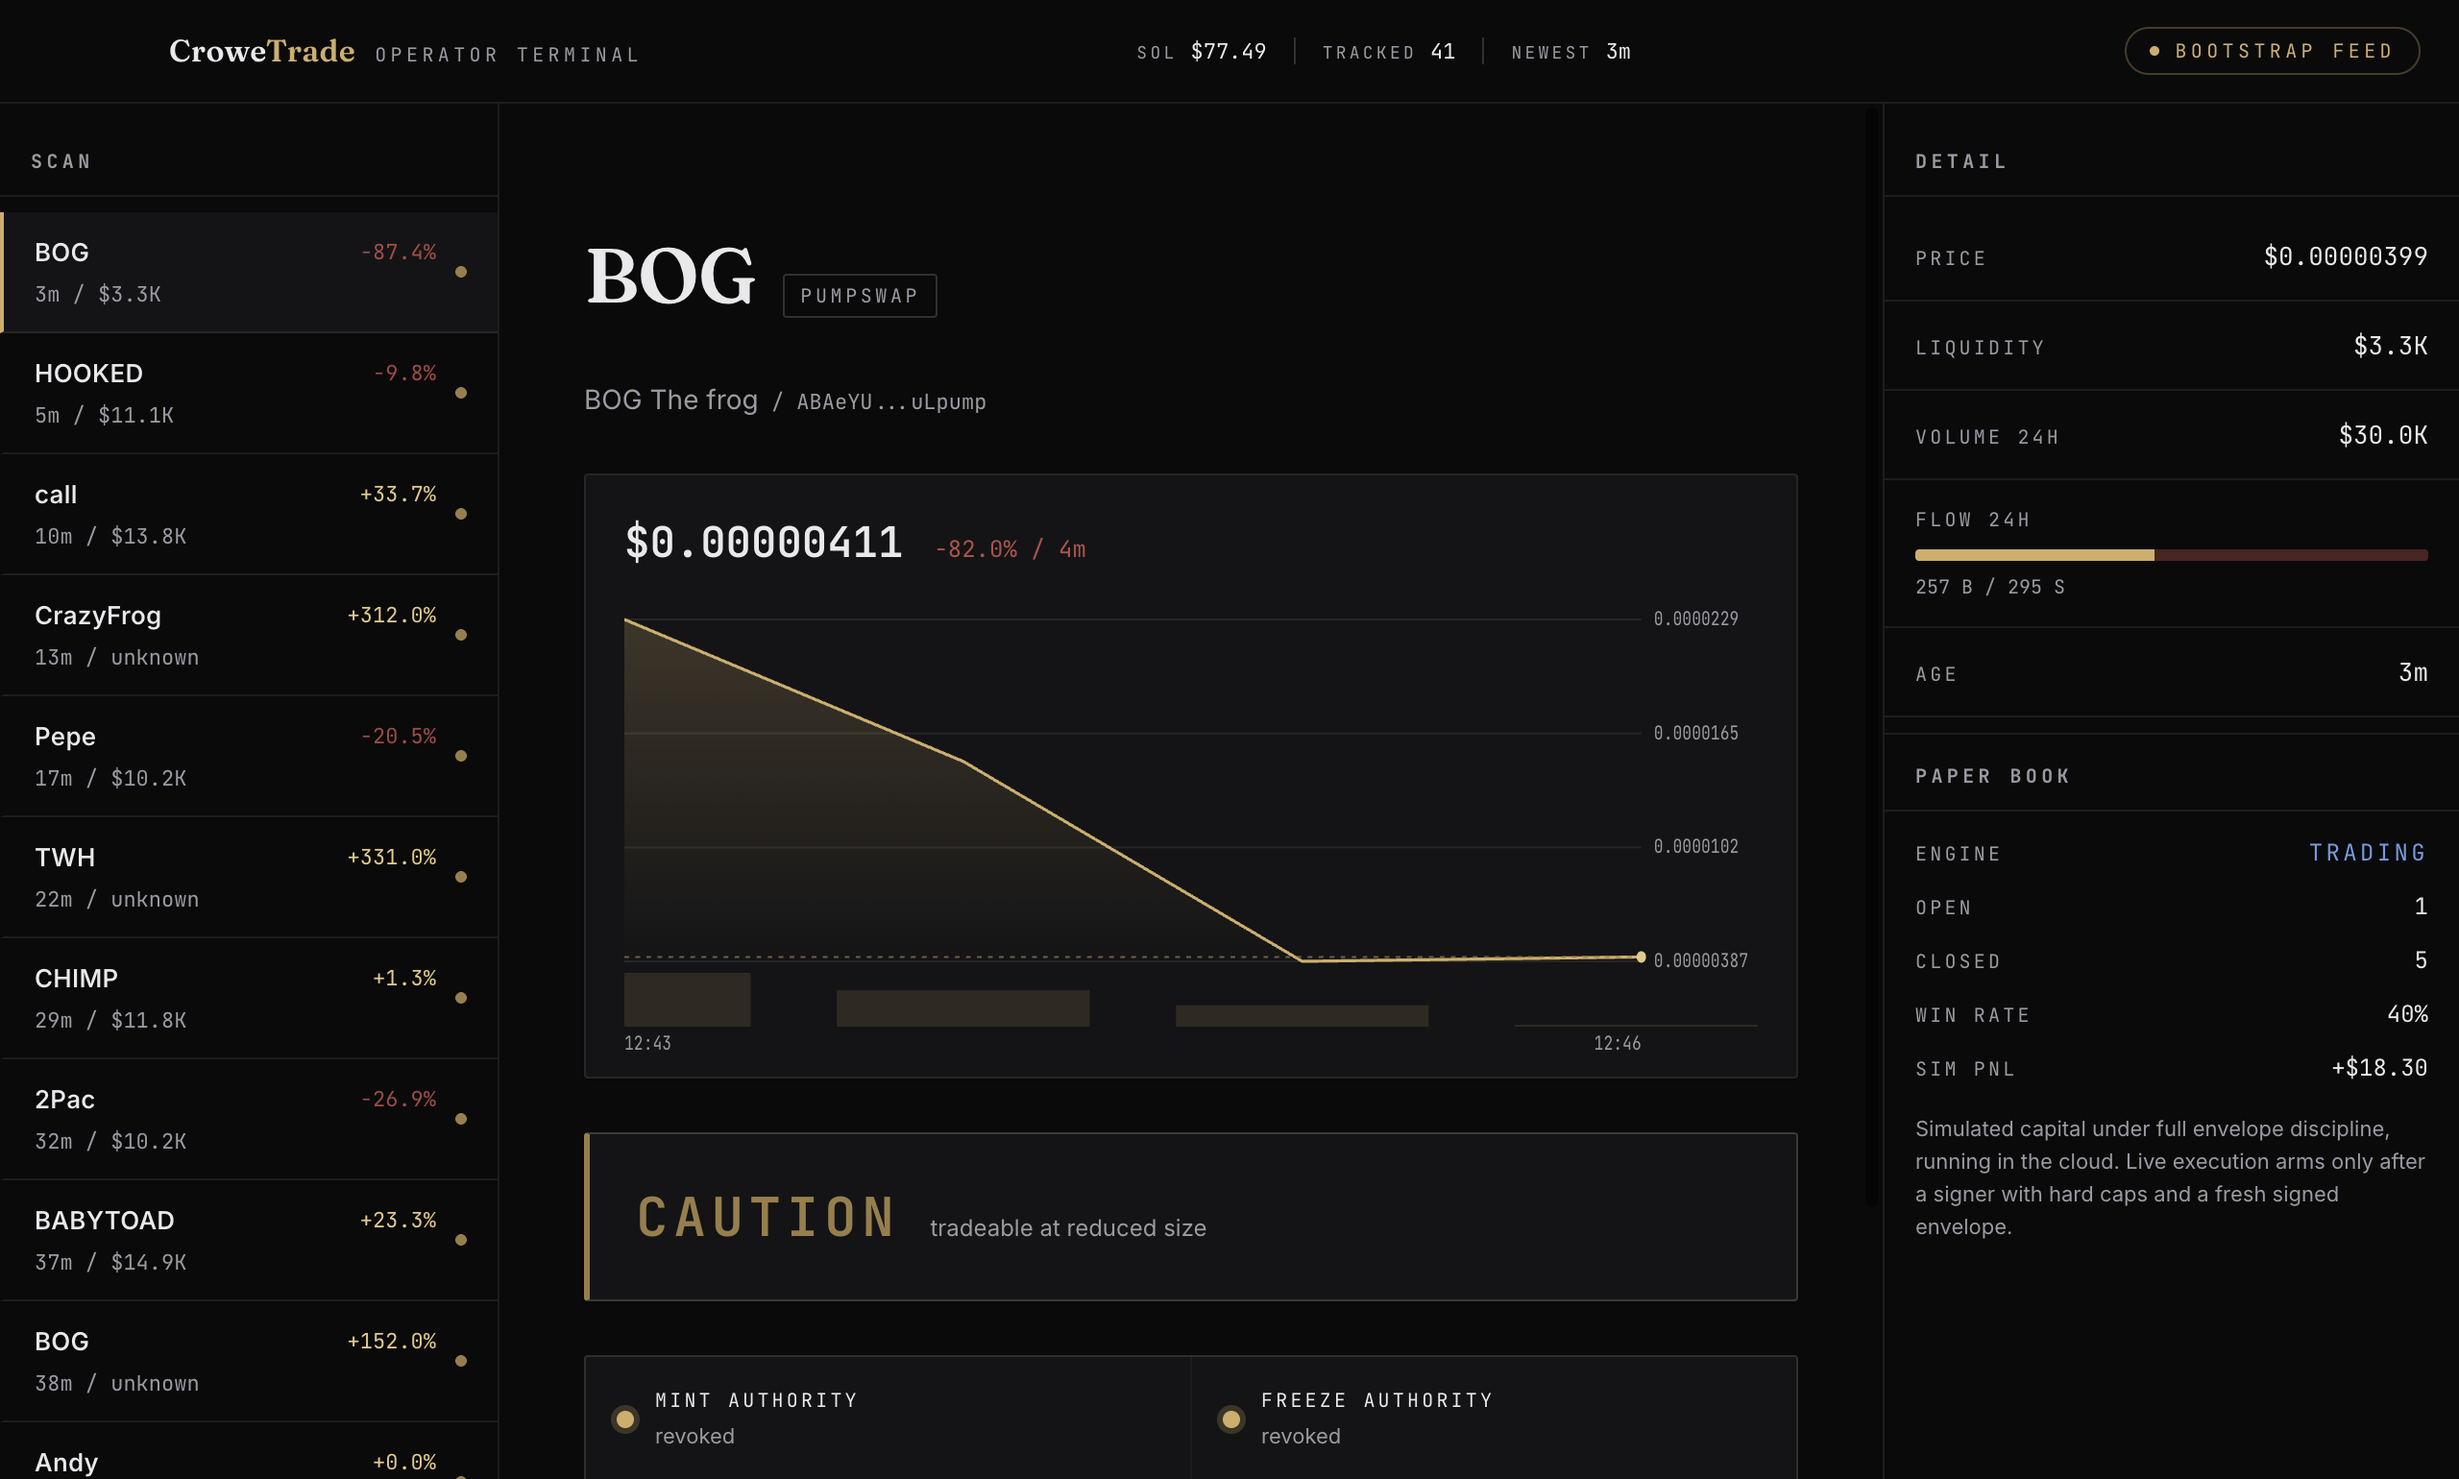
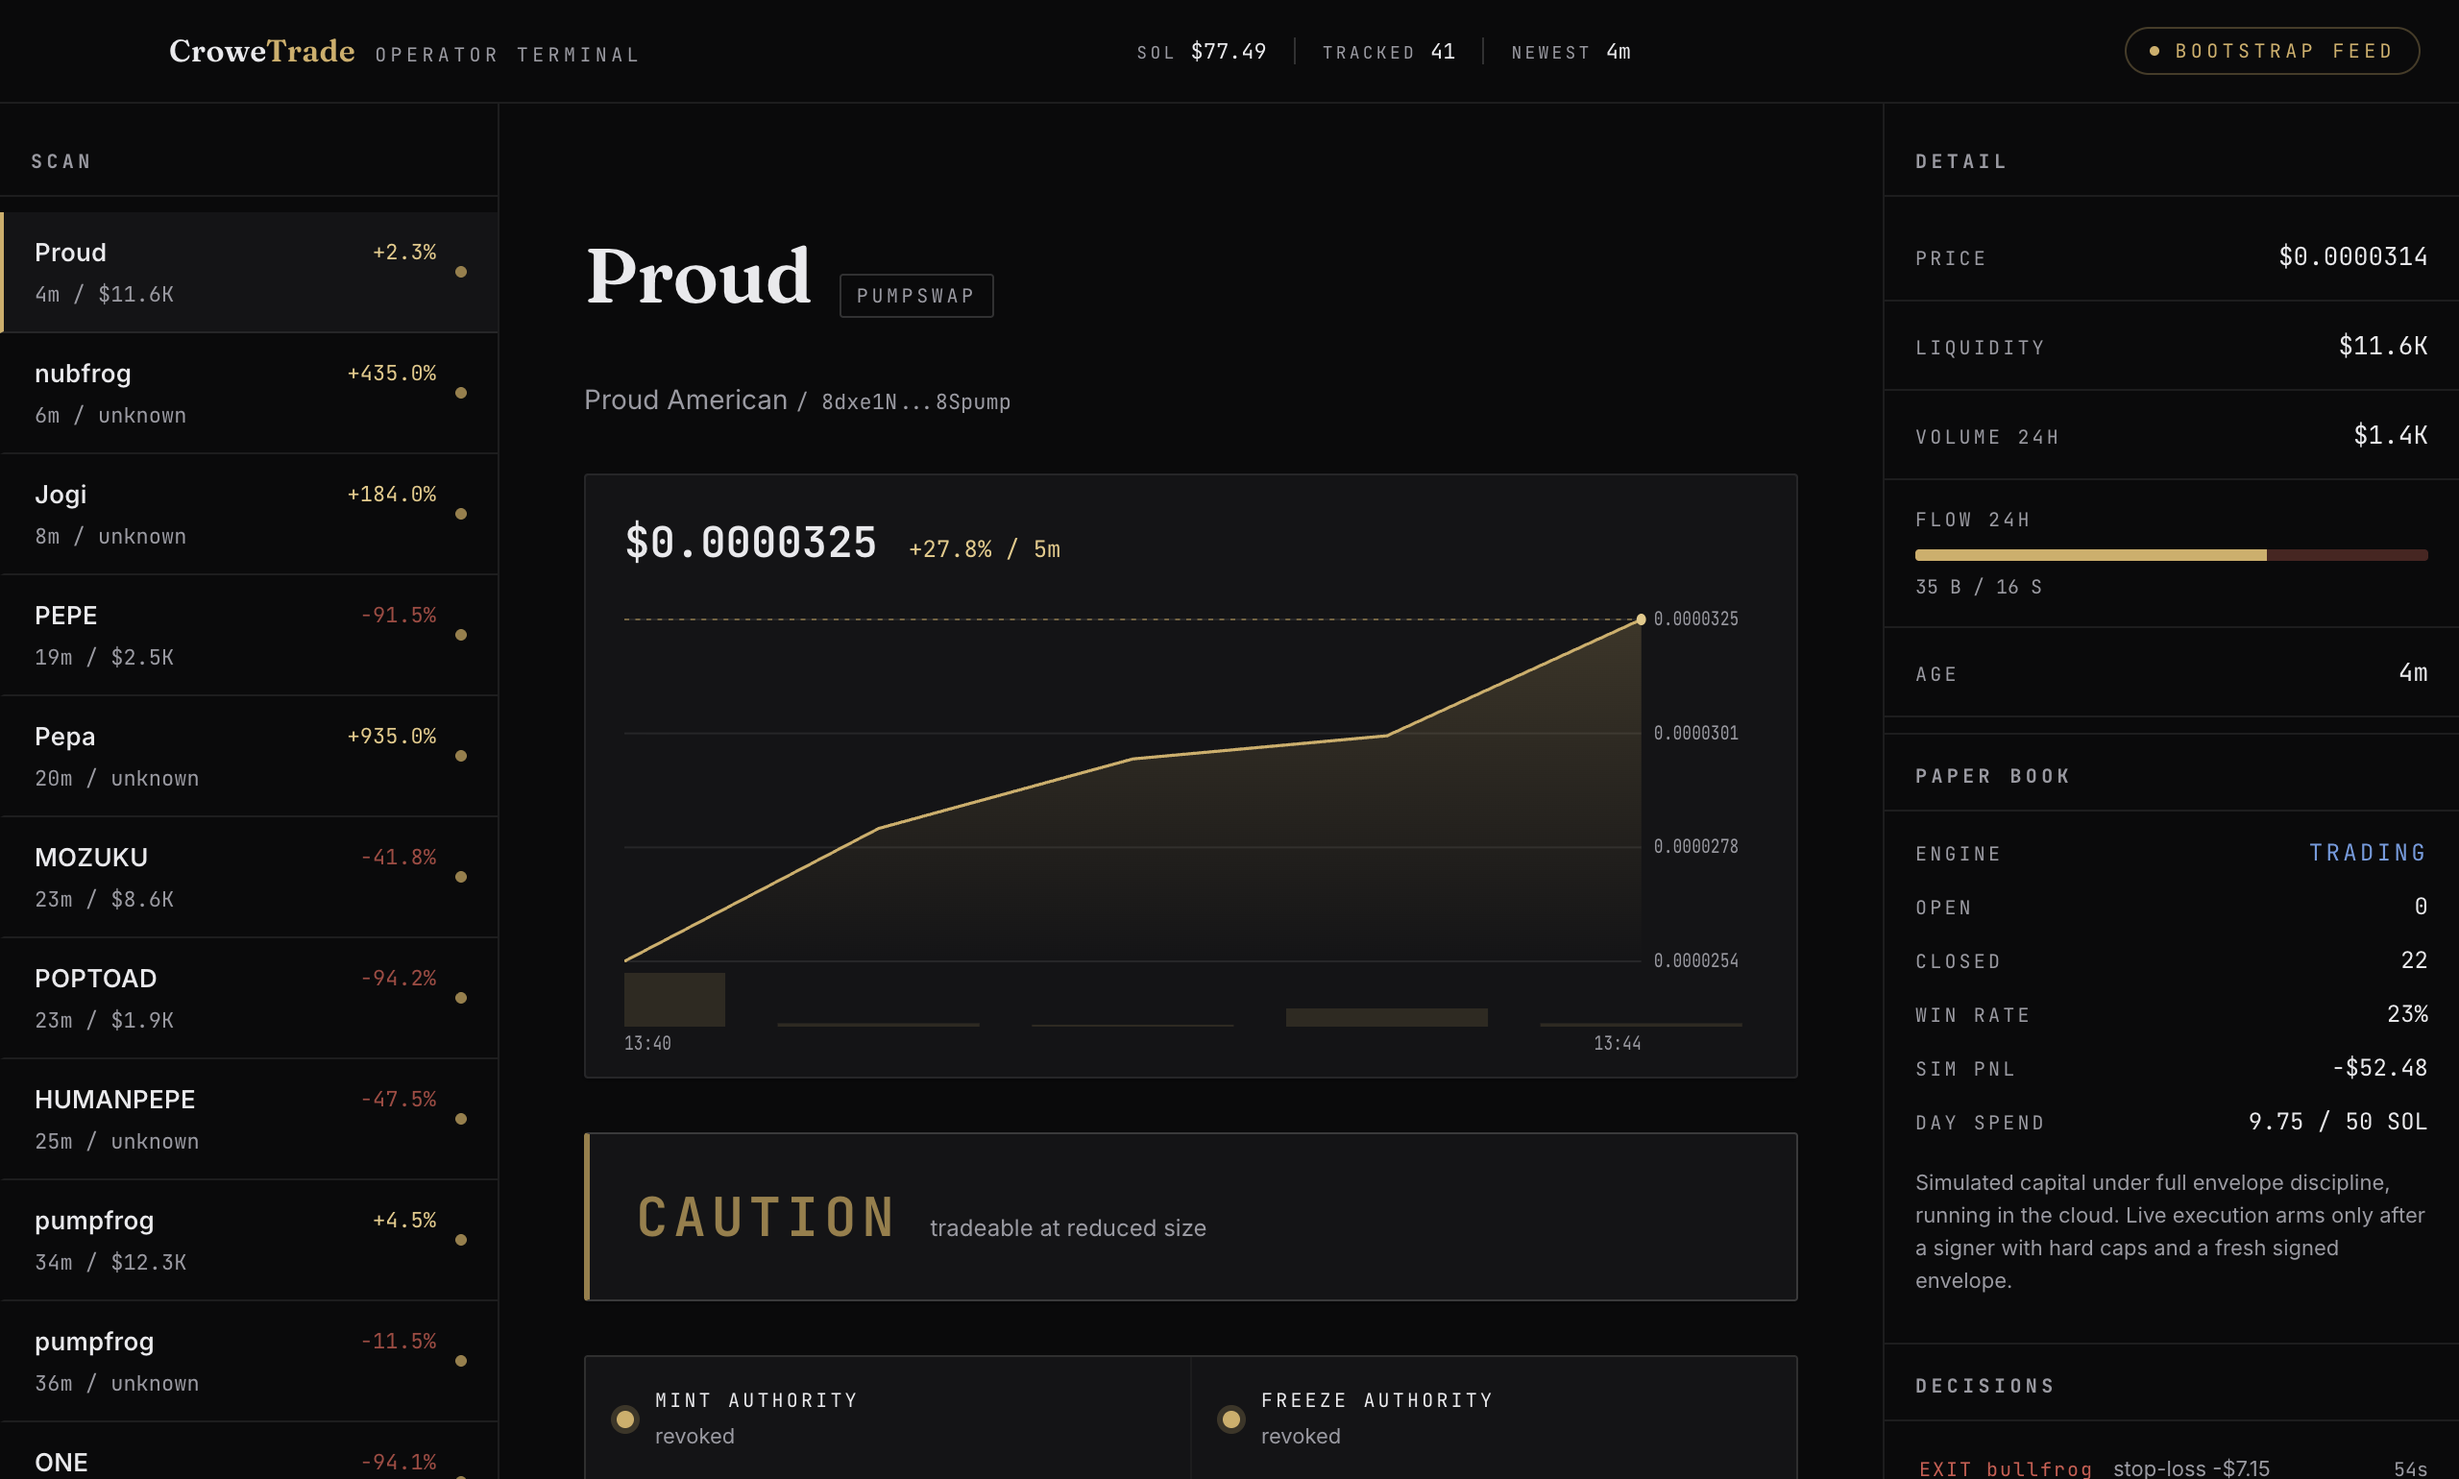
Terminal decisions feed, day-spend readout, and a 5x daily cap for sample velocity
The operator can now see every engine decision including refusals -- the
observability whose absence turned a silent 403 into a debugging session.
Daily cap 10 -> 50 SOL: changes how many trades happen, not the character of
any trade, so per-trade expectancy stays comparable across the hash boundary.

Claude-Session: https://claude.ai/code/session_01GLajnjPGngHvCo8vagnZPV

diff --git a/desktop/src/App.tsx b/desktop/src/App.tsx
@@ -19,10 +19,46 @@ interface EnginePosition {
   verdict_entry: string
 }
 
+interface EngineEvent {
+  at: number
+  kind: string
+  data: string
+}
+
 interface EngineSummary {
   killed: boolean
   open: EnginePosition[]
   stats: { closedCount: number; totalPnlUsd: number; winRate: number | null }
+  budget?: { spentTodaySol: number; dailyCapSol: number; canEnter: boolean }
+  events?: EngineEvent[]
+}
+
+/** One line per engine decision: what, who, and why when it declined. */
+function describeEvent(e: EngineEvent): { label: string; detail: string; kind: string } {
+  try {
+    const d = JSON.parse(e.data) as Record<string, unknown>
+    const sym = typeof d["symbol"] === "string" ? d["symbol"] : ""
+    switch (e.kind) {
+      case "entry":
+        return { kind: "entry", label: `ENTER ${sym}`, detail: `${String(d["verdict"])}` }
+      case "exit": {
+        const pnl = typeof d["pnlUsd"] === "number" ? d["pnlUsd"] : 0
+        return {
+          kind: pnl >= 0 ? "exit-win" : "exit-loss",
+          label: `EXIT ${sym}`,
+          detail: `${String(d["reason"])} ${pnl >= 0 ? "+" : "-"}$${Math.abs(pnl).toFixed(2)}`,
+        }
+      }
+      case "entry_skipped":
+        return { kind: "skip", label: `SKIP ${sym}`, detail: String(d["reason"] ?? "") }
+      case "kill":
+        return { kind: "skip", label: "KILL", detail: d["on"] ? "engaged" : "released" }
+      default:
+        return { kind: "skip", label: e.kind.toUpperCase(), detail: "" }
+    }
+  } catch {
+    return { kind: "skip", label: e.kind, detail: "" }
+  }
 }
 
 /** Verdict, or null when the combination policy has not been written yet. */
@@ -291,12 +327,38 @@ export default function App() {
                     </div>
                   </>
                 )}
+                {engine?.budget && (
+                  <div className="exec__row">
+                    <span className="exec__key">DAY SPEND</span>
+                    <span className="exec__value">
+                      {engine.budget.spentTodaySol.toFixed(2)} / {engine.budget.dailyCapSol} SOL
+                    </span>
+                  </div>
+                )}
                 <p className="exec__note">
                   Simulated capital under full envelope discipline, running in the
                   cloud. Live execution arms only after a signer with hard caps
                   and a fresh signed envelope.
                 </p>
               </div>
+
+              {engine?.events && engine.events.length > 0 && (
+                <>
+                  <h2 className="pane__title pane__title--section">Decisions</h2>
+                  <div className="decisions">
+                    {engine.events.slice(0, 12).map((e) => {
+                      const v = describeEvent(e)
+                      return (
+                        <div key={`${e.at}-${v.label}`} className={`decision decision--${v.kind}`}>
+                          <span className="decision__label mono">{v.label}</span>
+                          <span className="decision__detail">{v.detail}</span>
+                          <span className="decision__age mono">{age(e.at, now)}</span>
+                        </div>
+                      )
+                    })}
+                  </div>
+                </>
+              )}
             </>
           )}
         </aside>

diff --git a/desktop/src/styles/app.css b/desktop/src/styles/app.css
@@ -496,6 +496,31 @@ body {
   color: var(--clm-muted);
 }
 
+/* ── Decisions feed ─────────────────────────────────────────────────────── */
+
+.decisions { display: flex; flex-direction: column; }
+
+.decision {
+  display: grid;
+  grid-template-columns: auto 1fr auto;
+  gap: 10px;
+  align-items: baseline;
+  padding: 8px 16px;
+  border-bottom: 1px solid var(--clm-line);
+  border-left: 2px solid transparent;
+  font-size: 11px;
+}
+
+.decision__label { font-size: 10px; letter-spacing: 0.1em; }
+.decision__detail { color: var(--clm-muted); overflow: hidden; text-overflow: ellipsis; white-space: nowrap; }
+.decision__age { color: var(--clm-muted); font-size: 10px; }
+
+.decision--entry { border-left-color: var(--clm-gold); }
+.decision--entry .decision__label { color: var(--clm-gold); }
+.decision--exit-win .decision__label { color: var(--clm-gold-soft); }
+.decision--exit-loss .decision__label { color: var(--clm-lamp-fail); }
+.decision--skip .decision__label { color: var(--clm-muted); }
+
 .empty {
   padding: 48px 24px;
   color: var(--clm-muted);

diff --git a/shared/policy.ts b/shared/policy.ts
@@ -79,7 +79,15 @@ export const PAPER_POLICY: PolicyEnvelope = {
   product: "crowetrade-paper",
   waiverSha256: "unsigned-paper-phase",
   perTradeCapSol: 0.5,
-  dailyCapSol: 10,
+  /**
+   * Raised 10 -> 50 on 2026-08-08 to accelerate the validation sample toward
+   * the 100-close funding criterion. This changes how MANY trades happen, not
+   * the character of any trade — per-trade sizing, entry filters and exits are
+   * untouched — so per-trade expectancy statistics stay comparable across the
+   * hash boundary. A live envelope would never move this way without a fresh
+   * signature; paper is where the dial is allowed to be cheap.
+   */
+  dailyCapSol: 50,
   maxOpenPositions: 8,
   entry: {
     minVerdict: "caution",
